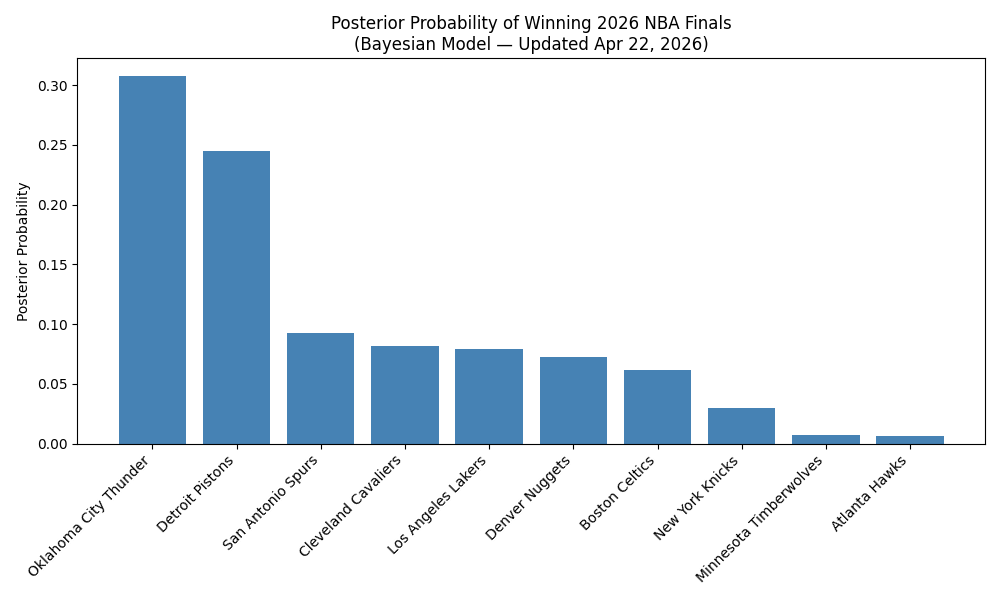
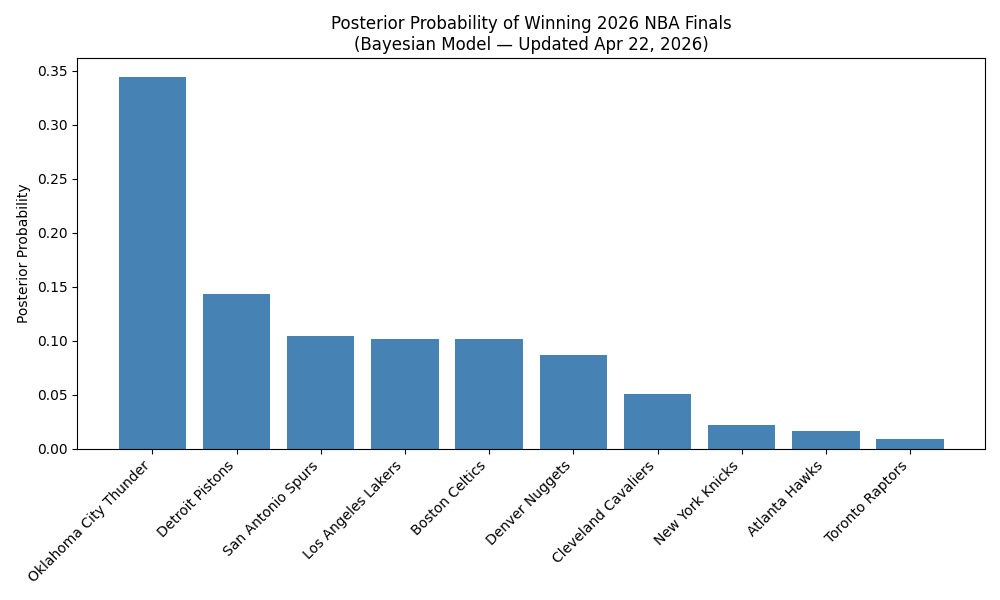
Update Round 2 bracket - May 13

diff --git a/src/simulate_playoffs.py b/src/simulate_playoffs.py
@@ -15,19 +15,17 @@ def simulate_series(theta_a, theta_b, rng):
     return 0 if wins_a == 4 else 1
 
 def simulate_bracket_once(theta_map, rng):
-    east_qf = [
-        ("Detroit Pistons", "Orlando Magic"),
-        ("Boston Celtics", "Philadelphia 76ers"),
-        ("New York Knicks", "Atlanta Hawks"),
-        ("Cleveland Cavaliers", "Toronto Raptors"),
+    # Round 2 remaining matchups
+    east_r2 = [
+        ("Cleveland Cavaliers", "Detroit Pistons"),
+    ]
+    west_r2 = [
+        ("San Antonio Spurs", "Minnesota Timberwolves"),
     ]
 
-    west_qf = [
-        ("Oklahoma City Thunder", "Phoenix Suns"),
-        ("San Antonio Spurs", "Portland Trail Blazers"),
-        ("Denver Nuggets", "Minnesota Timberwolves"),
-        ("Los Angeles Lakers", "Houston Rockets"),
-    ]
+    # Round 2 already completed
+    east_r2_winners = ["New York Knicks"]
+    west_r2_winners = ["Oklahoma City Thunder"]
 
     def play_round(matchups):
         winners = []
@@ -36,23 +34,19 @@ def simulate_bracket_once(theta_map, rng):
             winners.append(a if winner_idx == 0 else b)
         return winners
 
-    east_sf_teams = play_round(east_qf)
-    west_sf_teams = play_round(west_qf)
+    # Finish Round 2
+    east_r2_winners += play_round(east_r2)
+    west_r2_winners += play_round(west_r2)
 
-    east_sf = [(east_sf_teams[0], east_sf_teams[1]), (east_sf_teams[2], east_sf_teams[3])]
-    west_sf = [(west_sf_teams[0], west_sf_teams[1]), (west_sf_teams[2], west_sf_teams[3])]
-
-    east_cf_teams = play_round(east_sf)
-    west_cf_teams = play_round(west_sf)
-
-    east_cf = [(east_cf_teams[0], east_cf_teams[1])]
-    west_cf = [(west_cf_teams[0], west_cf_teams[1])]
+    # Conference Finals
+    east_cf = [(east_r2_winners[0], east_r2_winners[1])]
+    west_cf = [(west_r2_winners[0], west_r2_winners[1])]
 
     east_champ = play_round(east_cf)[0]
     west_champ = play_round(west_cf)[0]
 
-    finals = [(east_champ, west_champ)]
-    champ = play_round(finals)[0]
+    # Finals
+    champ = play_round([(east_champ, west_champ)])[0]
     return champ
 
 def posterior_title_probs(teams, samples, weights, n_outer=3000, random_state=42):

diff --git a/src/main.py b/src/main.py
@@ -10,9 +10,11 @@ from priors import build_prior_means
 from update_model import bayesian_update
 from simulate_playoffs import posterior_title_probs
 
+
+
 def main():
     teams_df = load_teams("data/teams_2026.csv")
-    playoff_df = load_playoff_results("data/playoff_results_apr22_2026.csv")
+    playoff_df, ROUND = load_playoff_results()
 
     priors_df = build_prior_means(teams_df)
     teams, samples, weights = bayesian_update(priors_df, playoff_df)
@@ -26,18 +28,18 @@ def main():
     print("\n--- Posterior Probability of Winning 2026 NBA Finals ---\n")
     print(out_df.to_string(index=False))
 
-    out_df.to_csv("outputs/posterior_probs.csv", index=False)
+    out_df.to_csv(f"outputs/round{ROUND}_posterior_probs.csv", index=False)
 
     top_df = out_df.head(10)
     plt.figure(figsize=(10, 6))
-    bars = plt.bar(top_df["team"], top_df["posterior_finals_win_prob"], color="steelblue")
+    plt.bar(top_df["team"], top_df["posterior_finals_win_prob"], color="steelblue")
     plt.xticks(rotation=45, ha="right")
     plt.ylabel("Posterior Probability")
-    plt.title("Posterior Probability of Winning 2026 NBA Finals\n(Bayesian Model — Updated Apr 22, 2026)")
+    plt.title(f"Posterior Probability of Winning 2026 NBA Finals\n(Bayesian Model — Round {ROUND})")
     plt.tight_layout()
-    plt.savefig("outputs/finals_chart.png")
+    plt.savefig(f"outputs/round{ROUND}_chart.png")
     plt.show()
-    print("\nChart saved to outputs/finals_chart.png")
+    print(f"\nChart saved to outputs/round{ROUND}_chart.png")
 
 if __name__ == "__main__":
     main()

diff --git a/src/load_data.py b/src/load_data.py
@@ -1,10 +1,16 @@
 import pandas as pd
+import os
 
 def load_teams(path="data/teams_2026.csv"):
     df = pd.read_csv(path)
     df["win_pct"] = df["wins"] / (df["wins"] + df["losses"])
     return df
 
-def load_playoff_results(path="data/playoff_results_apr22_2026.csv"):
-    return pd.read_csv(path)
-    
+def load_playoff_results():
+    # automatically detect the latest round with data
+    for round_num in [4, 3, 2, 1]:
+        path = f"data/round{round_num}_results.csv"
+        if os.path.exists(path) and os.path.getsize(path) > 0:
+            print(f"Loading Round {round_num} results...")
+            return pd.read_csv(path), round_num
+    raise FileNotFoundError("No playoff results CSV found with data.")